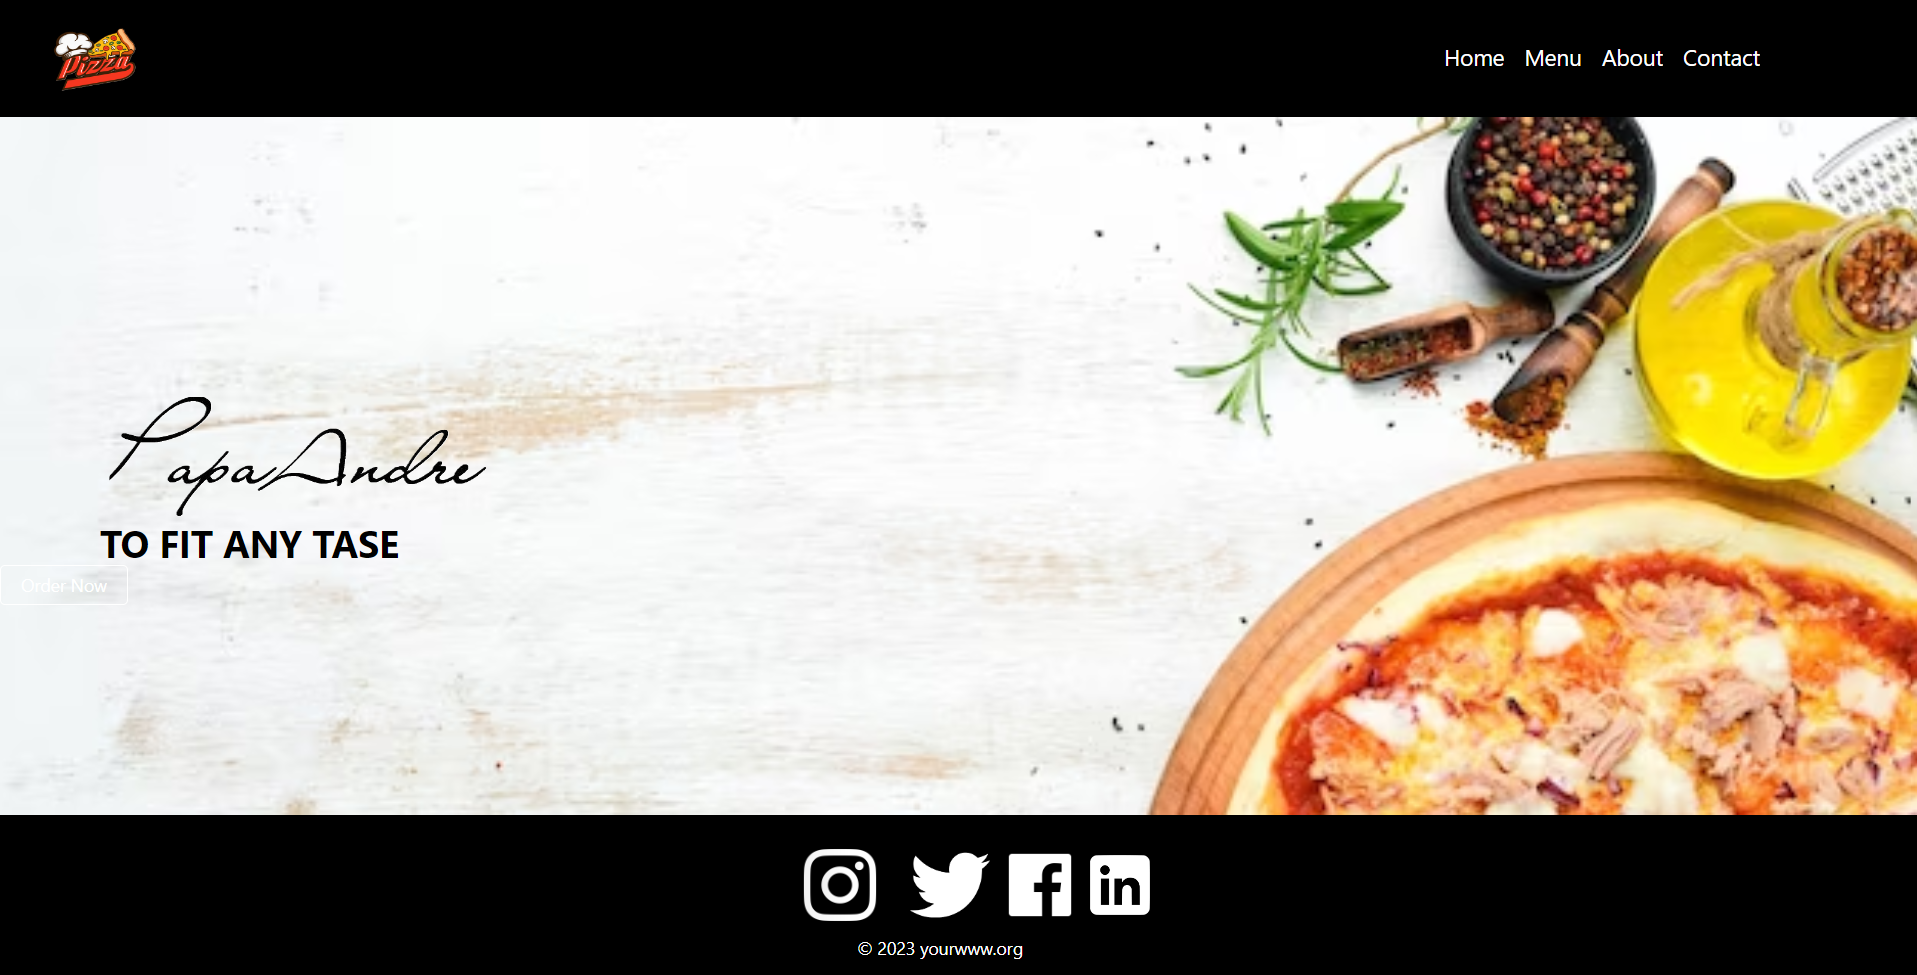
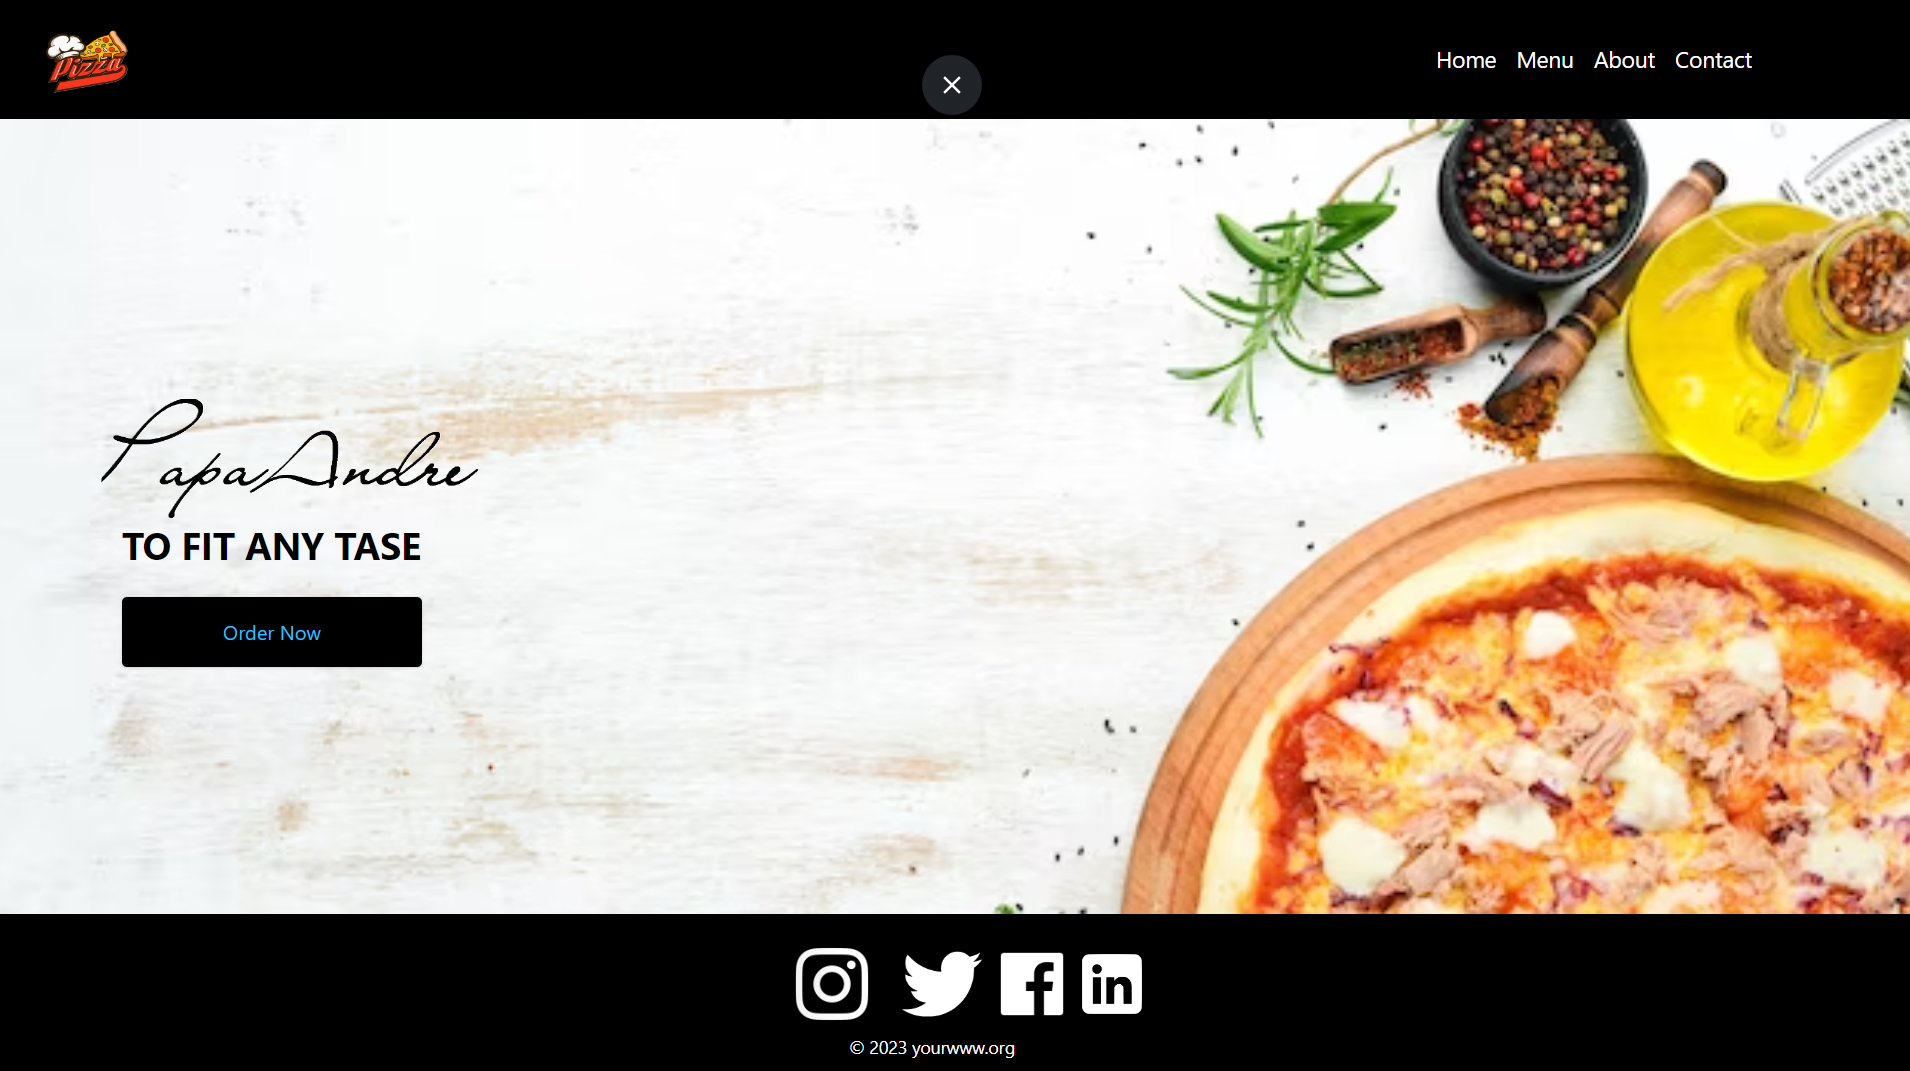
finished tailwindcss01

diff --git a/tailwindCSS/tailwind01/dist/index.html b/tailwindCSS/tailwind01/dist/index.html
@@ -23,13 +23,14 @@
     </div>
   </nav>
 
-  <main class="h-96 grow  w-full bg-cover bg-no-repeat" style="background-image: url('./../assets/traditional-pizza-with-tuna-vegetables-top-view-free-space-your-text-rustic-style_187166-11774.avif');"">
+  <main class="h-96 grow  w-full bg-cover bg-no-repeat" style="background-image: url('./../assets/traditional-pizza-with-tuna-vegetables-top-view-free-space-your-text-rustic-style_187166-11774.avif');">
     <div class="flex items-left flex-shrink-0 text-black mr-8 flex-col px-20 pt-56">
       <img src="./../assets/papaAndre01.png" class="w-80">
-      <span class="font-bold text-3xl font-sans	">TO FIT ANY TASE</span>
+      <span class="font-bold text-3xl font-sans pl-6	">TO FIT ANY TASE</span>
+      <div class="bg-black text-sky-400 p-4 m-6 w-60 rounded shadow text-center">Order Now</div>
+
     </div>
 
-    <a href="#" class="inline-block text-sm px-4 py-2 leading-none border rounded text-white border-white hover:border-transparent hover:text-blue-500 hover:bg-white mt-4 md:mt-0">Order Now</a>
   </main>
 
   <footer class="flex flex-col h-10items-center flex-wrap bg-black p-4 grow-0 justify-center content-center	">

diff --git a/tailwindCSS/tailwind01/dist/output.css b/tailwindCSS/tailwind01/dist/output.css
@@ -534,6 +534,14 @@ video {
   --tw-backdrop-sepia:  ;
 }
 
+.z-40 {
+  z-index: 40;
+}
+
+.m-6 {
+  margin: 1.5rem;
+}
+
 .mr-4 {
   margin-right: 1rem;
 }
@@ -678,6 +686,14 @@ video {
   width: 3rem;
 }
 
+.w-8 {
+  width: 2rem;
+}
+
+.w-60 {
+  width: 15rem;
+}
+
 .flex-shrink-0 {
   flex-shrink: 0;
 }
@@ -759,6 +775,10 @@ video {
 
 .p-4 {
   padding: 1rem;
+}
+
+.p-2 {
+  padding: 0.5rem;
 }
 
 .px-4 {
@@ -848,6 +868,18 @@ video {
   padding-top: 14rem;
 }
 
+.pl-4 {
+  padding-left: 1rem;
+}
+
+.pl-6 {
+  padding-left: 1.5rem;
+}
+
+.text-left {
+  text-align: left;
+}
+
 .text-center {
   text-align: center;
 }
@@ -910,6 +942,17 @@ video {
 .text-black {
   --tw-text-opacity: 1;
   color: rgb(0 0 0 / var(--tw-text-opacity));
+}
+
+.text-sky-400 {
+  --tw-text-opacity: 1;
+  color: rgb(56 189 248 / var(--tw-text-opacity));
+}
+
+.shadow {
+  --tw-shadow: 0 1px 3px 0 rgb(0 0 0 / 0.1), 0 1px 2px -1px rgb(0 0 0 / 0.1);
+  --tw-shadow-colored: 0 1px 3px 0 var(--tw-shadow-color), 0 1px 2px -1px var(--tw-shadow-color);
+  box-shadow: var(--tw-ring-offset-shadow, 0 0 #0000), var(--tw-ring-shadow, 0 0 #0000), var(--tw-shadow);
 }
 
 .hover\:border-transparent:hover {
